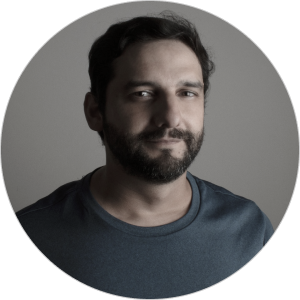
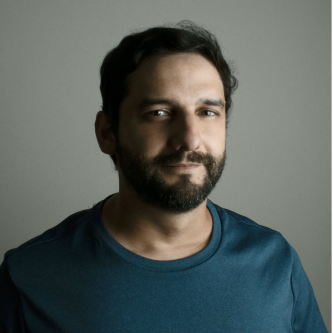
initial adjustments

diff --git a/src/pages/index.tsx b/src/pages/index.tsx
@@ -4,47 +4,64 @@ import { ProfileCover } from "@/components/ProfileCover";
 import { ButtonIcon } from "@/components/ButtonIcon";
 import { BsChevronDoubleDown } from "react-icons/bs";
 import Balancer from "react-wrap-balancer";
+import Line from '/public/line.svg'
+import Image from "next/image";
+import clsx from 'clsx'
 
-const inter = Inter({ subsets: ["latin"] });
+const inter = Inter({ subsets: ["latin"], weight: ['200'] });
 
 export default function Home() {
   return (
     <MainLayout>
-      <header className=" w-full">
-        <header className="bg-[#d9d9d9] w-full h-[200px] " />
-        <div>
-          <div className="relative border">
-            <ProfileCover />
-          </div>
-          <div className="absolute text-center animate-bounce bottom-0 w-full">
-            <a href="#myprojects">
-            <ButtonIcon
-              sizeIcon="32"
-              icon={BsChevronDoubleDown}
-              type="button"
-            />
-            </a>
-          </div>
-        </div>
-      </header>
-      <main className=" mt-[calc(100vh-200px)] border ">
-        <section
-          id="myprojects"
-          className="bg-[#efefef] border-[#aaa] w-full h-[500px]"
-        >
-          <h2 className="w-full py-4 text-center text-3xl ">Meus Projetos</h2>
+      <div className="relative bg-main-bg">
+        <div className=" bg-gradient-bg-top absolute top-0 h-screen w-screen z-auto " />
+        <header className=" w-full ">
+          <div className="bg-[#7D7C79] opacity-[0.18] w-full h-[200px] " />
+          <div className="relative h-[calc(100vh-200px)] ">
 
-          <article className="p-4">
-            <div className=" flex items-center justify-center border-2 border-dashed border-[#bbb] rounded-xl p-4 h-[400px]">
-              <h3 className="text-4xl p-8 text-center text-slate-500">
-                <Balancer>
-                  Em breve vão estar <strong>aqui</strong> meus projetos
-                </Balancer>
-              </h3>
+            <div className="absolute top-[-100px] w-full left-0">
+              <div className="absolute opacity-50 w-[300px] h-[300px] bottom-[-10%] bg-gradient-center left-[calc(50%-150px)] z-auto" />
+              <ProfileCover />
             </div>
-          </article>
-        </section>
-      </main>
+
+            <div className="absolute text-center animate-bounce bottom-[15%] w-full">
+              <a href="#myprojects">
+                <ButtonIcon
+                  className="hover:opacity-50"
+                  colorIcon="#BBB"
+                  sizeIcon="32"
+                  icon={BsChevronDoubleDown}
+                  type="button"
+                />
+              </a>
+            </div>
+
+          </div>
+        </header>
+        <main className="relative">
+          <div className="absolute opacity-50 blur-xl w-[50%] h-[80%] top-[-30%] bg-gradient-center left-0 z-auto" />
+          <section
+            id="myprojects"
+            className=" w-full h-[500px]"
+          >
+            <div className="flex flex-col items-center">
+              <h2 className={clsx(inter.className, "py-4 text-center text-[42px] sm:text-[48px] leading-5 text-[#bbb] ")}>Meus Projetos</h2>
+              <Image src={Line} width={340} alt="line" />
+            </div>
+
+
+            <article className="p-4">
+              <div className=" flex items-center justify-center border-2 border-dashed border-[#444] opacity-30 rounded-xl p-4 h-[400px]">
+                <h3 className="text-4xl p-8 text-center text-slate-500">
+                  <Balancer>
+                    Soon my projects will be here
+                  </Balancer>
+                </h3>
+              </div>
+            </article>
+          </section>
+        </main>
+      </div>
     </MainLayout>
   );
 }

diff --git a/src/components/SocialMedia/index.tsx b/src/components/SocialMedia/index.tsx
@@ -1,6 +1,6 @@
 import Link from "next/link"
 import { ButtonIcon } from "../ButtonIcon"
-import {FaInstagram, FaTwitter, FaGithub, FaLinkedin} from "react-icons/fa"
+import { FaInstagram, FaTwitter, FaGithub, FaLinkedin } from "react-icons/fa"
 
 
 
@@ -9,16 +9,16 @@ export const SolcialMedia = () => {
   return (
     <div className="w-full flex gap-4 justify-center">
       <Link target="_blank" id="linkInstagran" href={"https://www.instagram.com/pravtz/"} passHref>
-        <ButtonIcon sizeIcon="32" icon={FaInstagram} type="button" />
+        <ButtonIcon className=" hover:opacity-50" sizeIcon="32" colorIcon="#8E8E8E" icon={FaInstagram} type="button" />
       </Link>
       <Link target="_blank" id="linkTwitter" href={"https://twitter.com/pravtz"} passHref>
-        <ButtonIcon sizeIcon="32" icon={FaTwitter} type="button" />
+        <ButtonIcon className=" hover:opacity-50" sizeIcon="32" colorIcon="#8E8E8E" icon={FaTwitter} type="button" />
       </Link>
       <Link target="_blank" id="linkGithub" href={"https://www.github.com/pravtz/"} passHref>
-        <ButtonIcon sizeIcon="32" icon={FaGithub} type="button" />
+        <ButtonIcon className=" hover:opacity-50" sizeIcon="32" colorIcon="#8E8E8E" icon={FaGithub} type="button" />
       </Link>
       <Link target="_blank" id="linklinkedin" href={"https://www.linkedin.com/in/pravtz/"} passHref>
-        <ButtonIcon sizeIcon="32" icon={FaLinkedin} type="button" />
+        <ButtonIcon className=" hover:opacity-50" sizeIcon="32" colorIcon="#8E8E8E" icon={FaLinkedin} type="button" />
       </Link>
     </div>
   )

diff --git a/src/components/ProfileCover/index.tsx b/src/components/ProfileCover/index.tsx
@@ -4,21 +4,21 @@ import clsx from 'clsx'
 
 export const ProfileCover = () => {
   return (
-    <div className="absolute top-[-100px] w-full left-0">
-      <div className='flex flex-col w-full items-center justify-center mx-auto'>
 
-        <div className='boreder rounded-full w-[260px] mb-4'>
-          <Image src='/avatar.png' alt='avatar' width='260' height='260' />
-        </div>
+    <div className='flex flex-col w-full items-center text-[#bbb] justify-center mx-auto relative'>
 
-        <p className='text-md'>Olá, Bem vindo! Meu nome é</p>
-        <h1 className='text-[32px] md:text-[52px]'><span className=' font-bold'>Ederson </span>Pravtz</h1>
-        <p className=' text-base'>Sou desenvolvedor de sistemas web</p>
-        
-        <div className='py-4'>
-          <SolcialMedia />
-        </div>
+      <div className=' rounded-full w-[260px] mb-4 bg-cover'>
+        <Image src='/avatar.png' alt='avatar' width='276' height='276' />
+      </div>
+
+      <p className='text-md'>Olá, Bem vindo! Meu nome é</p>
+      <h1 className='text-[32px] md:text-[52px]'><span className=' font-bold'>Ederson </span>Pravtz</h1>
+      <p className=' text-base'>Sou desenvolvedor de sistemas web</p>
+
+      <div className='py-4'>
+        <SolcialMedia />
       </div>
     </div>
+
   )
 }

diff --git a/tailwind.config.js b/tailwind.config.js
@@ -12,10 +12,14 @@ module.exports = {
         'gradient-radial': 'radial-gradient(var(--tw-gradient-stops))',
         'gradient-conic':
           'conic-gradient(from 180deg at 50% 50%, var(--tw-gradient-stops))',
+        'gradient-bg-top': 'linear-gradient(180deg, rgba(52, 72, 45, 0.78) 0%, rgba(35, 40, 33, 0.260417) 59.9%, rgba(29, 29, 29, 0) 100%)',
+        'gradient-center': 'radial-gradient(50% 50% at 50% 50%, #3E4C38 0%, rgba(33, 37, 32, 0) 100%)',
+
       },
-      backgroundColor:{
-        'main-bg': '#f4f4f4',
-        'header-bg': '#d9d9d9'
+      backgroundColor: {
+        'main-bg': '#1d1d1d',
+        'header-bg': '#7D7C79'
+
       }
     },
   },

diff --git a/src/layouts/main.layout.tsx b/src/layouts/main.layout.tsx
@@ -15,7 +15,7 @@ export const MainLayout = ({ children }: { children: React.ReactNode }) => {
           content='Blog e página pessoal de Ederson Pravtz'
         />
       </Head>
-      <div className=" w-screen h-screen">
+      <div className=" w-screen h-screen ">
         {children}
       </div>
     </>

diff --git a/src/styles/globals.css b/src/styles/globals.css
@@ -16,8 +16,4 @@
   }
 }
 
-body {
-  color: '#282828';
-  background: '#f4f4f4'
-  
-}
+
